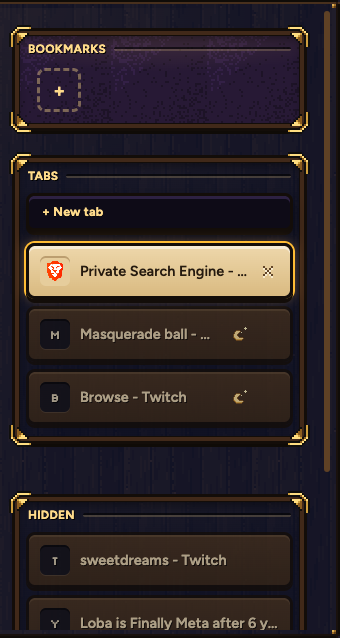
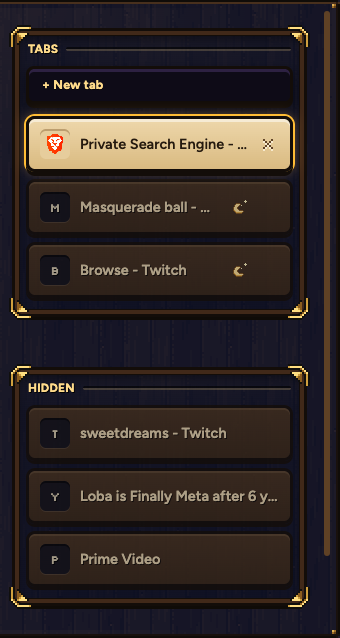
Sheet 87 v8: the private list holds only private tabs, no bookmarks

diff --git a/docs/cockpit/sheet-87-private-window.html b/docs/cockpit/sheet-87-private-window.html
@@ -17,7 +17,8 @@
      tabs are rows in that panel. Pictures 2 to 4 are Samara itself (test/electron/private-drawer-shot.ts), plain test tabs.
      v7 (his "if i open tabs at all it triggers the password"): the whole tab list is behind the PIN, not one panel. Opening
      the list in a private window asks first; then every tab shows, the hidden ones kept from last time included. The PIN is
-     its own, 4 to 8 long, and may match the autofill one (his call). -->
+     its own, 4 to 8 long, and may match the autofill one (his call).
+     v8 (his "it ONLY opens to these tabs"): the private list has no bookmarks and none of the normal window's tabs. -->
 <link rel="stylesheet" href="../../src/Shell/pages/cockpit.css">
 <style>
   html,body{background:#17110c;margin:0}
@@ -58,11 +59,12 @@
 <div class="win"><img src="art/sheet87-frame.png" width="1100" height="700" alt=""><div class="dim"></div>
   <div class="pinask" style="left:50%"><div data-mask="3"></div><div class="lights"><i class="f"></i><i class="f"></i><i></i><i></i></div></div></div>
 
-<h2>3 · RIGHT PIN: ALL YOUR TABS, THE HIDDEN ONES TOO</h2>
+<h2>3 · RIGHT PIN: ONLY YOUR PRIVATE TABS, THE HIDDEN ONES TOO</h2>
 <div class="win"><img src="art/sheet87-frame.png" width="1100" height="700" alt=""><img class="list" src="art/sheet87-list-open.png" alt=""></div>
 <ul class="steps">
   <li>Its own PIN, 4 to 8 long. It can be the same as your autofill PIN or different. You set it the first time, and change it in Settings.</li>
   <li>The lights fill gold as you type, and it opens on the last one. A wrong PIN shakes the lights and empties them.</li>
+  <li>No bookmarks and none of your normal tabs. Only what you opened here.</li>
   <li>Hidden tabs are the ones you kept. They come back next time; everything else is gone when the window closes.</li>
   <li>The list locks again when the private window closes. Esc or a click outside closes the box.</li>
 </ul>

diff --git a/src/Shell/test/electron/private-drawer-shot.ts b/src/Shell/test/electron/private-drawer-shot.ts
@@ -54,6 +54,8 @@ app.whenReady().then(async () => {
     Object.assign(m.style, { display: 'grid', placeItems: 'center', paddingRight: '9px', marginRight: '1px', position: 'relative', flex: 'none' });
     const n = document.createElement('i'); Object.assign(n.style, { position: 'absolute', right: '0', top: '50%', width: '2px', height: '16px', marginTop: '-8px', background: '#05030c' }); m.append(n); slot.prepend(m); return 1; })()`);
   await tw.executeJavaScript(NIGHT);
+  // v8 (his "it ONLY opens to these tabs"): a private window's list has no bookmarks and none of his normal tabs.
+  await tw.executeJavaScript(`document.querySelector('.shelf-bk')?.remove(); 1`);
   // The hidden tabs: a third panel, the Tabs panel's own frame. Locked first.
   const panel = (open: boolean) => `(() => {
     document.getElementById('hidpanel')?.remove();
